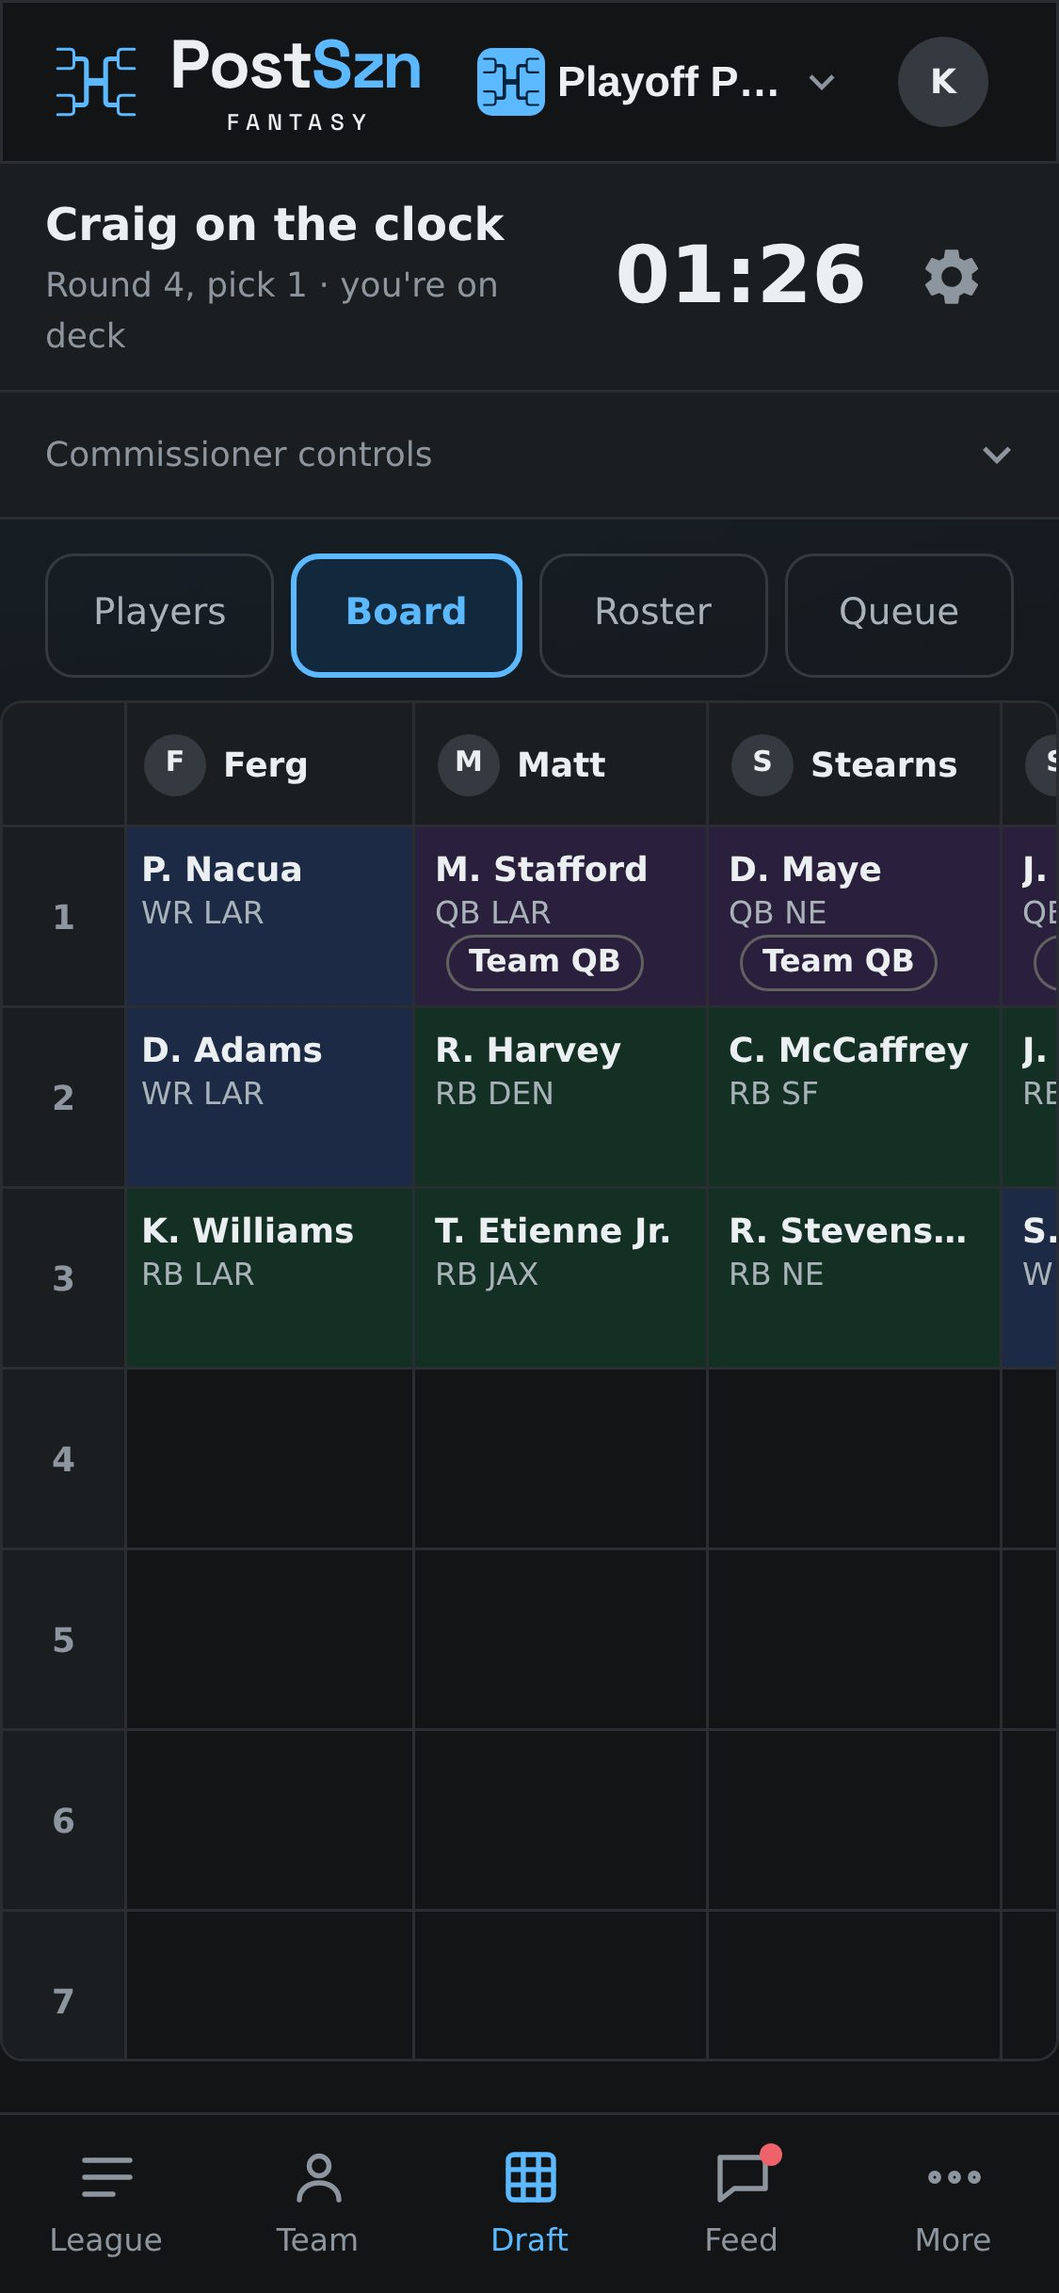
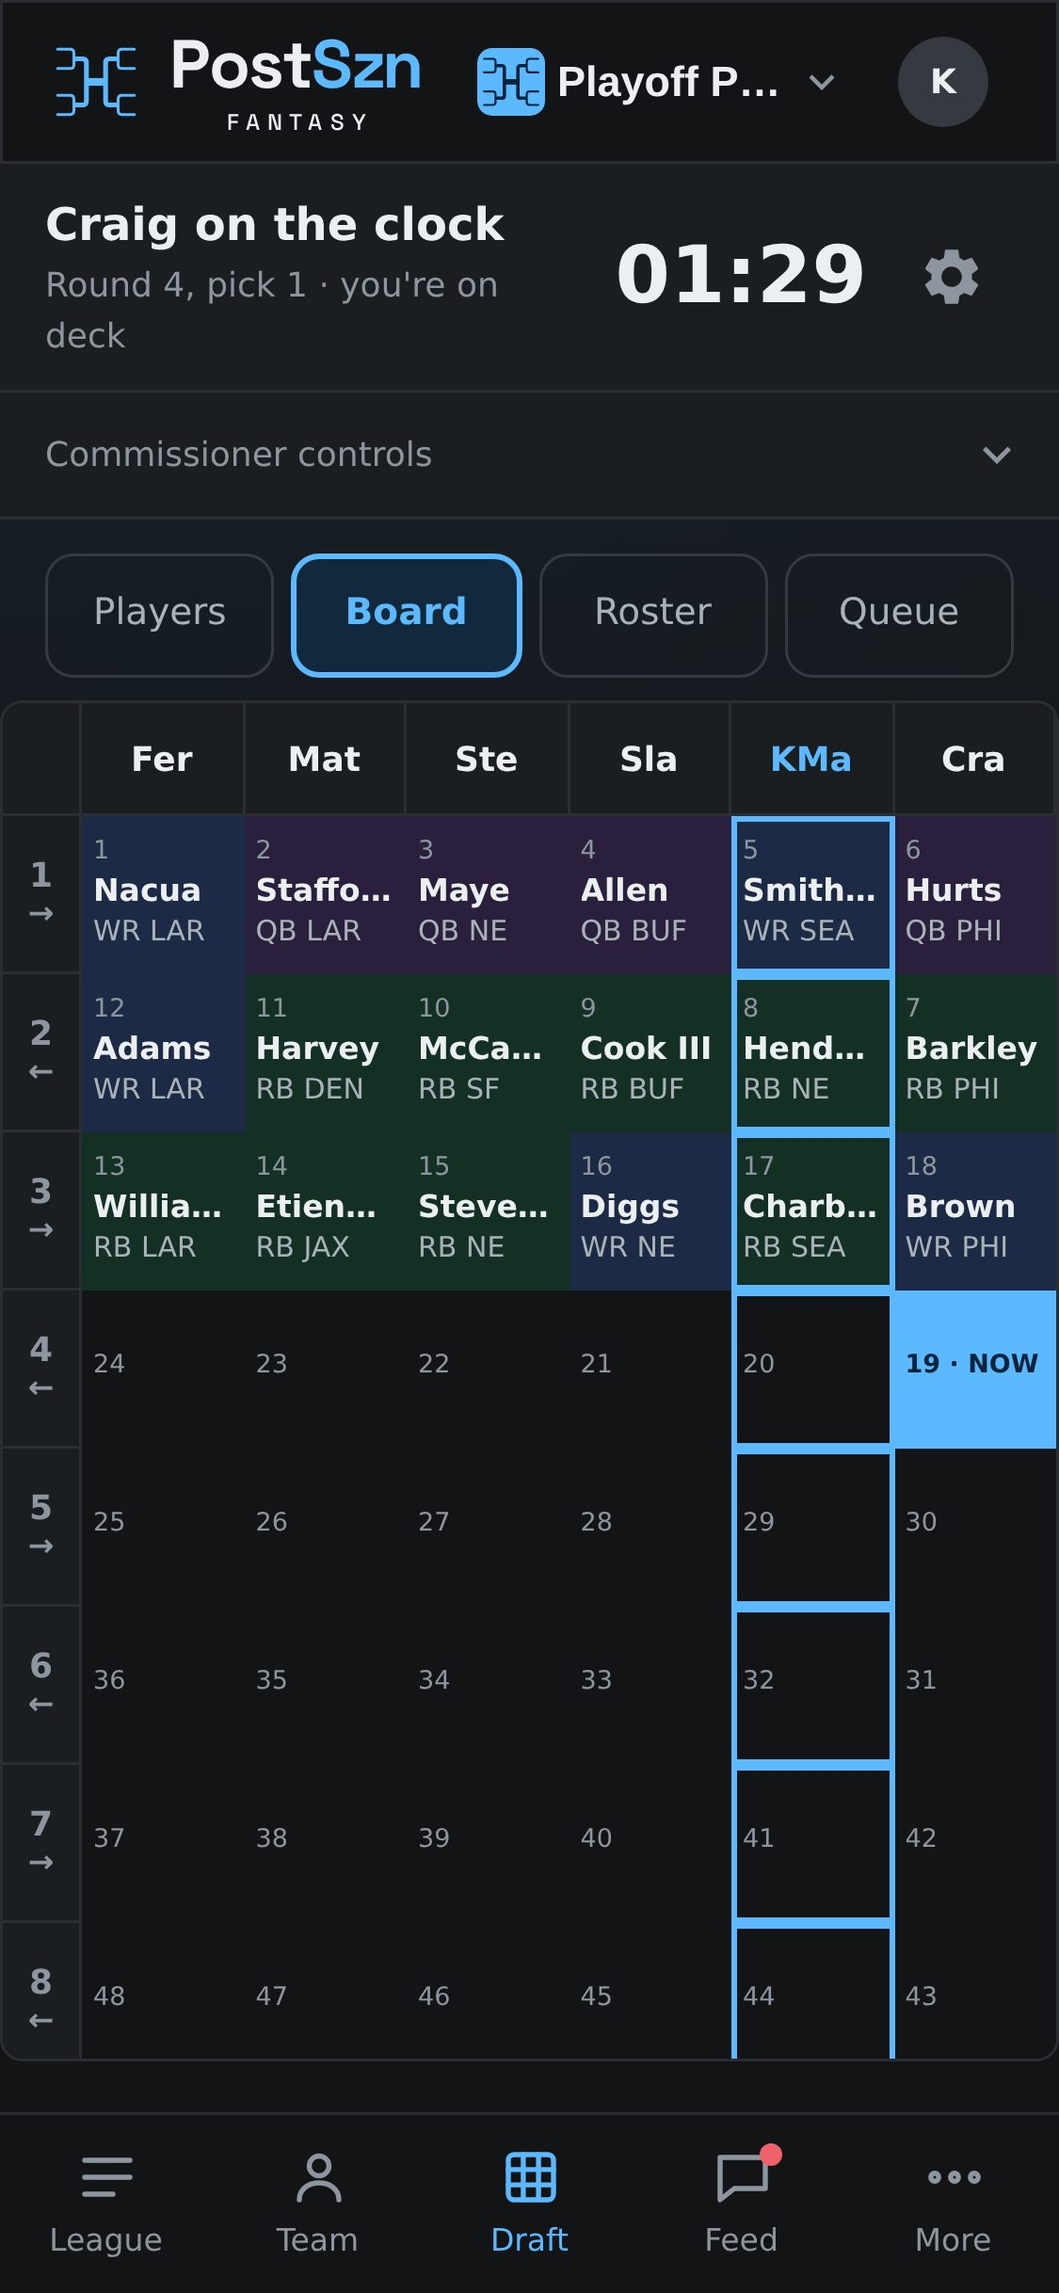
Draft board: fit 6 teams on a phone, compact cells, tap a cell for the pick (#350)

diff --git a/frontend/src/components/draft/DraftBoard.tsx b/frontend/src/components/draft/DraftBoard.tsx
@@ -1,11 +1,11 @@
 import { Box, Paper, Typography } from "@mui/material";
 import type { SxProps, Theme } from "@mui/material/styles";
 import type React from "react";
-import { useEffect, useRef } from "react";
+import { useEffect, useRef, useState } from "react";
 import type { DraftPick, DraftState } from "../../api/types";
 import { tokens } from "../../theme";
-import PictureAvatar from "../common/PictureAvatar";
 import TeamUnitBadge from "../common/TeamUnitBadge";
+import SettingsSheet from "../settings/SettingsSheet";
 import { centeredScroll } from "./boardScroll";
 import { positionColor } from "./positions";
 
@@ -14,19 +14,42 @@ interface Props {
   myTeamId: number | null;
   /** Frame size overrides: the page decides how tall the board may be. */
   sx?: SxProps<Theme>;
+  /** Extra actions for the tapped cell's sheet (the commissioner's assign-a-pick, #332). */
+  renderCellActions?: (cell: BoardCell) => React.ReactNode;
 }
 
-const ROUND_COL = 44;
-const TEAM_COL = 104;
-const HEADER_ROW = 44;
-const CELL_HEIGHT = 64;
+export interface BoardCell {
+  overall: number;
+  round: number;
+  teamId: number;
+  teamName: string;
+  pick: DraftPick | undefined;
+  onClock: boolean;
+}
 
-/** "Christian McCaffrey" reads "C. McCaffrey"; team defenses keep their name. */
-export const shortName = (name: string | null, position: string | null): string => {
+const ROUND_COL = 28;
+// 6 teams (the default league) fit a 375px phone; bigger leagues scroll with pinned headers.
+const TEAM_COL = 56;
+const HEADER_ROW = 40;
+const CELL_HEIGHT = 56;
+
+/** Initials for the narrow column header; the full name opens with the cell. */
+export const teamInitials = (name: string): string => {
+  const words = name.trim().split(/\s+/).filter(Boolean);
+  if (words.length < 2) return name.trim().slice(0, 3);
+  return words
+    .slice(0, 3)
+    .map((word) => word.charAt(0))
+    .join("")
+    .toUpperCase();
+};
+
+/** "Christian McCaffrey" reads "McCaffrey"; team defenses keep their name. */
+export const lastName = (name: string | null, position: string | null): string => {
   if (!name) return "";
   const [first, ...rest] = name.split(" ");
   if (position === "DST" || !first || rest.length === 0) return name;
-  return `${first.charAt(0)}. ${rest.join(" ")}`;
+  return rest.join(" ");
 };
 
 const pinned = { position: "sticky", bgcolor: tokens.surface } as const;
@@ -40,20 +63,22 @@ const gridLine = {
  * The grid scrolls both ways inside its own frame with the round and team headers pinned,
  * and follows the pick on the clock.
  */
-const DraftBoard: React.FC<Props> = ({ state, myTeamId, sx }) => {
+const DraftBoard: React.FC<Props> = ({ state, myTeamId, sx, renderCellActions }) => {
+  const [selected, setSelected] = useState<BoardCell | null>(null);
   const teamCount = state.order.length;
   const columns = `${ROUND_COL}px repeat(${teamCount || 1}, minmax(${TEAM_COL}px, 1fr))`;
   const frameRef = useRef<HTMLDivElement>(null);
   const byOverall = new Map<number, DraftPick>(state.picks.map((p) => [p.numberPickOverall, p]));
 
   // Overall pick number for a team's cell in a round, honouring the draft type's direction.
+  const isReversed = (round: number): boolean =>
+    state.draftType === "snake"
+      ? round % 2 === 1
+      : state.draftType === "third_round_reversal"
+        ? round === 1 || (round >= 2 && round % 2 === 0)
+        : false;
   const overallFor = (round: number, slotIndex: number): number => {
-    const reversed =
-      state.draftType === "snake"
-        ? round % 2 === 1
-        : state.draftType === "third_round_reversal"
-          ? round === 1 || (round >= 2 && round % 2 === 0)
-          : false;
+    const reversed = isReversed(round);
     return round * teamCount + (reversed ? teamCount - 1 - slotIndex : slotIndex) + 1;
   };
 
@@ -123,25 +148,26 @@ const DraftBoard: React.FC<Props> = ({ state, myTeamId, sx }) => {
               top: 0,
               zIndex: 2,
               height: HEADER_ROW,
-              px: 1,
+              px: 0.5,
               display: "flex",
               alignItems: "center",
               minWidth: 0,
             }}
           >
-            <Box sx={{ display: "flex", alignItems: "center", gap: 0.75, minWidth: 0 }}>
-              <PictureAvatar url={slot.teamAvatarUrl} name={slot.teamName} size={22} />
-              <Typography
-                noWrap
-                sx={{
-                  fontSize: 12,
-                  fontWeight: 600,
-                  color: slot.teamId === myTeamId ? tokens.accent : tokens.text,
-                }}
-              >
-                {slot.teamName}
-              </Typography>
-            </Box>
+            <Typography
+              noWrap
+              title={slot.teamName}
+              sx={{
+                fontSize: 12,
+                fontWeight: 700,
+                width: "100%",
+                textAlign: "center",
+                color: slot.teamId === myTeamId ? tokens.accent : tokens.text,
+              }}
+            >
+              {teamInitials(slot.teamName)}
+              <Box component="span" sx={visuallyHidden}>{` ${slot.teamName}`}</Box>
+            </Typography>
           </Box>
         ))}
         {Array.from({ length: state.rounds }, (_, round) => (
@@ -154,32 +180,61 @@ const DraftBoard: React.FC<Props> = ({ state, myTeamId, sx }) => {
                 zIndex: 1,
                 height: CELL_HEIGHT,
                 display: "flex",
+                flexDirection: "column",
                 alignItems: "center",
                 justifyContent: "center",
                 color: tokens.muted,
                 fontSize: 12,
                 fontWeight: 600,
+                lineHeight: 1.2,
               }}
             >
               {round + 1}
+              <Box component="span" aria-hidden sx={{ fontSize: 11 }}>
+                {isReversed(round) ? "←" : "→"}
+              </Box>
+              <Box component="span" sx={visuallyHidden}>
+                {isReversed(round) ? "right to left" : "left to right"}
+              </Box>
             </Box>
             {state.order.map((slot, slotIndex) => {
               const overall = overallFor(round, slotIndex);
               const pick = byOverall.get(overall);
               const onClock = overall === onClockOverall && state.status !== "completed";
               const mine = slot.teamId === myTeamId;
+              const cell: BoardCell = {
+                overall,
+                round: round + 1,
+                teamId: slot.teamId,
+                teamName: slot.teamName,
+                pick,
+                onClock,
+              };
               return (
                 <Box
                   key={`${round}-${slot.teamId}`}
+                  component="button"
+                  type="button"
                   data-testid={`pick-${overall}`}
+                  aria-label={cellLabel(cell)}
+                  onClick={() => setSelected(cell)}
                   sx={{
                     ...gridLine,
+                    appearance: "none",
+                    font: "inherit",
+                    textAlign: "left",
+                    cursor: "pointer",
                     height: CELL_HEIGHT,
                     minWidth: 0,
-                    px: 0.875,
-                    py: 0.75,
-                    fontSize: 11,
-                    lineHeight: 1.3,
+                    minHeight: 44,
+                    px: 0.5,
+                    py: 0.5,
+                    fontSize: 10,
+                    lineHeight: 1.25,
+                    overflow: "hidden",
+                    border: 0,
+                    borderRight: `1px solid ${tokens.border}`,
+                    borderBottom: `1px solid ${tokens.border}`,
                     color: onClock ? tokens.accentInk : tokens.textSoft,
                     fontWeight: onClock ? 700 : 400,
                     bgcolor: onClock
@@ -190,39 +245,81 @@ const DraftBoard: React.FC<Props> = ({ state, myTeamId, sx }) => {
                     boxShadow: mine ? `inset 0 0 0 2px ${tokens.accent}` : undefined,
                   }}
                 >
-                  {onClock && "On the clock"}
+                  <Box
+                    component="span"
+                    sx={{
+                      display: "block",
+                      fontSize: 9,
+                      color: onClock ? "inherit" : tokens.muted,
+                    }}
+                  >
+                    {overall}
+                    {onClock ? " · NOW" : ""}
+                  </Box>
                   {pick && (
                     <>
                       <Typography
                         noWrap
                         component="b"
-                        sx={{ display: "block", fontSize: 12, fontWeight: 600, color: tokens.text }}
+                        sx={{ display: "block", fontSize: 11, fontWeight: 600, color: tokens.text }}
                       >
-                        {shortName(pick.playerName, pick.position)}
+                        {lastName(pick.playerName, pick.position)}
                       </Typography>
-                      {pick.position} {pick.teamAbv}
-                      {pick.autopick ? " · auto" : ""}
-                      {pick.scoresWholeTeam && (
-                        <Box component="span" sx={{ ml: 0.5 }}>
-                          <TeamUnitBadge
-                            position={pick.position ?? ""}
-                            teamAbv={pick.teamAbv}
-                            dense
-                          />
-                        </Box>
-                      )}
+                      <Box component="span" sx={{ display: "block" }} aria-hidden>
+                        {pick.position} {pick.teamAbv}
+                      </Box>
                     </>
                   )}
-                  <Box component="span" sx={visuallyHidden}>
-                    {`Pick ${overall}`}
-                  </Box>
                 </Box>
               );
             })}
           </Box>
         ))}
       </Box>
+      {selected && (
+        <SettingsSheet title={`Pick ${selected.overall}`} onClose={() => setSelected(null)}>
+          <CellDetails cell={selected} />
+          {renderCellActions?.(selected)}
+        </SettingsSheet>
+      )}
     </Paper>
+  );
+};
+
+const cellLabel = ({ overall, pick, teamName, onClock }: BoardCell): string =>
+  pick
+    ? `Pick ${overall}, ${teamName}: ${pick.playerName ?? "player"}`
+    : `Pick ${overall}, ${teamName}${onClock ? ", on the clock" : ""}`;
+
+const CellDetails = ({ cell }: { cell: BoardCell }) => {
+  const { pick, teamName, round, onClock } = cell;
+  const lines = [`Round ${round}`, teamName];
+  if (!pick) {
+    return (
+      <Box>
+        <Typography color="text.secondary">{lines.join(" · ")}</Typography>
+        <Typography>
+          {onClock ? `${teamName} is on the clock.` : `${teamName} picks here.`}
+        </Typography>
+      </Box>
+    );
+  }
+  return (
+    <Box>
+      <Typography sx={{ fontWeight: 700 }}>{pick.playerName}</Typography>
+      <Typography color="text.secondary">
+        {[pick.position, pick.teamAbv].filter(Boolean).join(" · ")}
+      </Typography>
+      <Typography color="text.secondary">
+        {lines.join(" · ")}
+        {pick.autopick ? " · Auto-pick" : ""}
+      </Typography>
+      {pick.scoresWholeTeam && (
+        <Box sx={{ mt: 0.5 }}>
+          <TeamUnitBadge position={pick.position ?? ""} teamAbv={pick.teamAbv} dense />
+        </Box>
+      )}
+    </Box>
   );
 };
 

diff --git a/frontend/src/components/draft/DraftBoard.test.tsx b/frontend/src/components/draft/DraftBoard.test.tsx
@@ -1,7 +1,7 @@
-import { render, screen } from "@testing-library/react";
+import { fireEvent, render, screen } from "@testing-library/react";
 import { describe, expect, it } from "vitest";
 import type { DraftState } from "../../api/types";
-import DraftBoard from "./DraftBoard";
+import DraftBoard, { teamInitials } from "./DraftBoard";
 
 const base: DraftState = {
   draftId: 1,
@@ -48,12 +48,9 @@ const base: DraftState = {
 describe("DraftBoard", () => {
   it("renders teams as columns in assigned order with picks in their cells", () => {
     render(<DraftBoard state={base} myTeamId={10} />);
-    expect(screen.getAllByText(/Alpha|Bravo/).map((node) => node.textContent)).toEqual([
-      "Alpha",
-      "Bravo",
-    ]);
-    expect(screen.getByTestId("pick-1").textContent).toContain("P. QB");
-    expect(screen.getByTestId("pick-2").textContent).toContain("On the clock");
+    expect(screen.getAllByText(/^Alp/).length).toBeGreaterThan(0);
+    expect(screen.getByTestId("pick-1").textContent).toContain("QB");
+    expect(screen.getByTestId("pick-2").textContent).toContain("NOW");
   });
 
   it("reverses odd rounds for snake drafts", () => {
@@ -68,10 +65,30 @@ describe("DraftBoard", () => {
     expect(screen.getByText(/hasn't set the draft order/i)).toBeTruthy();
   });
 
-  it("labels auto-picks on the board", () => {
+  it("shows the full pick, and who made it, in a sheet when a cell is tapped", () => {
     const picks = [{ ...base.picks[0], autopick: true }] as DraftState["picks"];
     render(<DraftBoard state={{ ...base, picks }} myTeamId={10} />);
-    expect(screen.getByTestId("pick-1").textContent).toContain("auto");
+    fireEvent.click(screen.getByTestId("pick-1"));
+    expect(screen.getByText("Pat QB")).toBeTruthy();
+    expect(screen.getByText(/Round 1 · Alpha · Auto-pick/)).toBeTruthy();
+  });
+
+  it("says who is on the clock for an empty cell and offers extra actions", () => {
+    render(
+      <DraftBoard
+        state={base}
+        myTeamId={null}
+        renderCellActions={(cell) => <button type="button">Assign {cell.overall}</button>}
+      />,
+    );
+    fireEvent.click(screen.getByTestId("pick-2"));
+    expect(screen.getByText("Bravo is on the clock.")).toBeTruthy();
+    expect(screen.getByRole("button", { name: "Assign 2" })).toBeTruthy();
+  });
+
+  it("abbreviates team headers", () => {
+    expect(teamInitials("Dream Team Alpha")).toBe("DTA");
+    expect(teamInitials("Bravo")).toBe("Bra");
   });
 });
 
@@ -83,7 +100,7 @@ describe("DraftBoard team QB / team K", () => {
 
   it("badges a drafted team QB while still showing his name", () => {
     render(<DraftBoard state={withFlag(true)} myTeamId={null} />);
-    expect(screen.getByText("P. QB")).toBeTruthy();
+    fireEvent.click(screen.getByTestId("pick-1"));
     expect(screen.getByRole("note", { name: /Scores all PHI QBs/ })).toBeTruthy();
   });
 

diff --git a/AGENTS.md b/AGENTS.md
@@ -213,7 +213,7 @@ PostSznFantasy/
         │   ├── activity/       # ActivityFeed (collapsed, new dot), SlotMarker (override / asterisk), ChangedScore tooltip, describeEvent
         │   ├── feed/           # Feed pieces: `feedView.ts` (timeline rows, "New" divider, event wording), FeedEventRow, MessageRow, Composer (Enter sends with a mouse only), GifPicker, DeleteMessageDialog
         │   ├── layout/         # AppShell (header + bottom tabs on phones / left rail from md up), NavBar (header: logo, switcher, the avatar that opens `ProfileSheet`), Brand, LeagueSwitcher, BottomTabBar, LeagueRail, leagueTabs (League, Team, Draft, Feed, More)
-        │   ├── draft/          # DraftClockBar + clockText (the sticky bar), CommissionerStrip (randomize, edit order, change date, start, pause/resume/undo/force pick), DraftOrderEditor + orderMoves (up/down, saved as one order change), DraftSetupDialogs (date, seconds per pick/type/timeout), DraftBoard, RosterView + rosterSlots (my picks in the league's slots), QueuePanel, PreDraftNotice
+        │   ├── draft/          # DraftClockBar + clockText (the sticky bar), CommissionerStrip (randomize, edit order, change date, start, pause/resume/undo/force pick), DraftOrderEditor + orderMoves (up/down, saved as one order change), DraftSetupDialogs (date, seconds per pick/type/timeout), DraftBoard (compact cells: last name, position, NFL team, pick number; tap a cell for the full pick in a sheet, `renderCellActions` is where the commissioner's assign-a-pick, #332, plugs in), RosterView + rosterSlots (my picks in the league's slots), QueuePanel, PreDraftNotice
         │   ├── league/         # PhaseBlock (top block by phase), Standings (phone rows that expand in place, desktop round columns, pre-draft team slots), RankCell (tie tooltip), LeagueNotes (collapsible card), InviteLinkButton (copy and share the invite link), phase.ts / countdown.ts / standingsView.ts helpers, ArchivedBanner (tops every page of a finished season from SeasonLayout), LiveIndicator ("Live, updated 20s ago" in the playoff phase block while a game is live; `useStandings` polls only then, otherwise on focus), ArchivedNotice (shown where a finished season hides write controls; write controls follow the season's `canEdit` / `canCommission` from `useSeasonContext`), LeagueDeletedNotice (the "deleted by a commissioner" page)
         │   ├── players/        # PlayersView (the league player list: search, position / NFL team / fantasy team filters, sort, owner chip; with a `draft` prop it adds Draft and queue buttons and All / Available / Drafted), FilterMenu, playerRows.ts (pool + season stats rows, stat line, filters, sorts)
         │   ├── recap/          # SeasonRecap: champion card, Playoff MVP and champion's MVP, awards by position, start the next season (gated by `canStartSeason`)
@@ -335,7 +335,7 @@ Authorization (`api/dependencies/league.py`): `LeagueMember` / `LeagueCommission
 - **Centralized Configuration**: All environment variables are strongly typed and accessed via `get_settings()` from `api/core/config.py`.
 
 ### Frontend Patterns
-- **Mobile-first, always**: The app is used primarily on phones. Design every screen for ~375px width first, then scale up. Default to one vertical column; do not spread a single control across rows/columns of a grid; no horizontal scrolling (exception: the draft board grid, which scrolls both ways with pinned headers) or hover-only interactions; touch targets at least 44px; drag-and-drop must work by touch (delayed `TouchSensor` so scrolling still works).
+- **Mobile-first, always**: The app is used primarily on phones. Design every screen for ~375px width first, then scale up. Default to one vertical column; do not spread a single control across rows/columns of a grid; no horizontal scrolling (exception: the draft board grid for leagues of more than 6 teams, which scrolls both ways with pinned headers; 6 teams fit a 375px phone) or hover-only interactions; touch targets at least 44px; drag-and-drop must work by touch (delayed `TouchSensor` so scrolling still works).
 - **Visual verification is part of every UI change**: After each UI step, launch the app (the `run` skill / built-in browser), use `resize_window` with the `mobile` preset (375x812) and look at the actual rendering, then check desktop. Fix anything clipped, overlapping, cramped or oddly laid out before reporting the work done. Reset the viewport to `desktop` afterward.
 - **Environment Configuration**: Runtime variables use Vite conventions (`import.meta.env.VITE_*`).
   - `VITE_API_URL`: Backend HTTP origin; optional locally because the Vite dev server proxies `/api` to `http://localhost:8000`.
